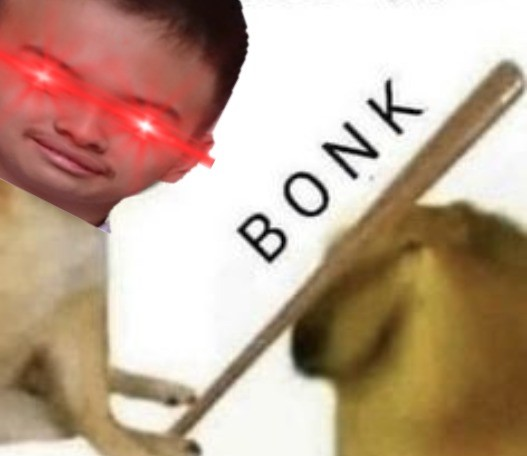
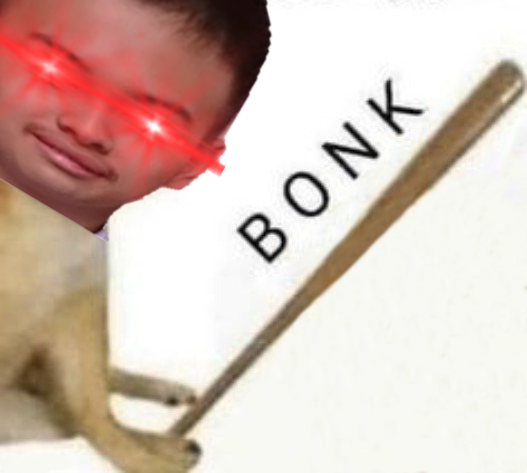
Improved bonk performance and consistency

diff --git a/cogs/randompun.py b/cogs/randompun.py
@@ -7,12 +7,10 @@ from discord.ext import commands
 from configs import *
 
 
-async def insert_profile(profile, pos):
+async def insert_profile(profile, pos:list):
+    alphaChannel = profile.getchannel('A')
     image = Image.open("./pictures/pun_bonk.png")
-    alphaChannelImage = ImageOps.expand(profile, border=(5,5,5,5), fill="black")
-    profile.convert("RGBA")
-    alphaChannelImage = profile.getchannel('A')
-    image.paste(profile, (int(image.size[0] - pos[0]), int(image.size[1] - pos[1])), mask=alphaChannelImage)
+    image.paste(profile, (int(image.size[0] - pos[0]), int(image.size[1] - pos[1])), mask=alphaChannel)
     return image
 
 async def make_profile_round(userAvatar):
@@ -38,7 +36,6 @@ async def griddify(size, x_cut, y_cut):
             vertexMatrix[-1].append([int(x), int(y)])
             x += x_step
         y += y_step
-    #print(np.array(vertexMatrix))
     return np.array(vertexMatrix), x_step, y_step
 
 async def bonk_distort(grid, strength, x_step, y_step):
@@ -91,7 +88,7 @@ async def warp_profile(profile, strength):
     profile = profile.transform(profile.size, Image.MESH, mesh)
     return profile, x_step, y_step
 
-class randomCog(commands.Cog, command_attrs = { "hidden" : True}):
+class randomCog(commands.Cog, command_attrs = {"hidden" : True}):
 
     def __init__(self,bot):
         self.bot = bot
@@ -129,20 +126,20 @@ class randomCog(commands.Cog, command_attrs = { "hidden" : True}):
                     await avatarAsset.save(avatarBuffer)
                     avatarBuffer.seek(0)
                     userAvatar = Image.open(avatarBuffer)
-                    profileImg = await make_profile_round(userAvatar)
+                    profileImg= await make_profile_round(userAvatar)
                     strength = random.random()
-                    if strength > 0.8:
-                        selected = f"{ctx.author.mention} You asked for {num} ToodPun, so he thinks you are too horny and hit you with a **very effective** bonk."
-                    elif strength < 0.2:
-                        selected = f"{ctx.author.mention} You asked for {num} ToodPun, so he thinks you are too horny but his bonk was *not very effective*."
-                    else:
-                        selected = f"{ctx.author.mention} You asked for {num} ToodPun, It's too many and he thinks you should go to horny jail."
                     profileImg, x_step, y_step = await warp_profile(profileImg, strength)
-                    gotBonked = await insert_profile(profileImg, [232 + strength*strength*x_step, 253 + strength*strength*y_step])
+                    gotBonked = await insert_profile(profileImg, [227 + strength*x_step, 251 + strength*y_step])
                     buffer = io.BytesIO()
                     gotBonked.save(buffer, format='png')
                     buffer.seek(0)
                     bonk = discord.File(buffer, f"{ctx.author.name}_got_bonked.png")
+                    if strength > 0.8:
+                        selected = f"{ctx.author.mention} You asked for {num} ToodPun, so he thinks you are too horny and hit you with a **very effective** bonk."
+                    elif strength < 0.2:
+                        selected = f"{ctx.author.mention} You asked for {num} ToodPun, so he thinks you should go to horny jail but his bonk was *not very effective*."
+                    else:
+                        selected = f"{ctx.author.mention} You asked for {num} ToodPun, It's too many and he thinks you should go to horny jail."
                     break
                 selected = selected + choice
         await ctx.send(selected, file = bonk)
